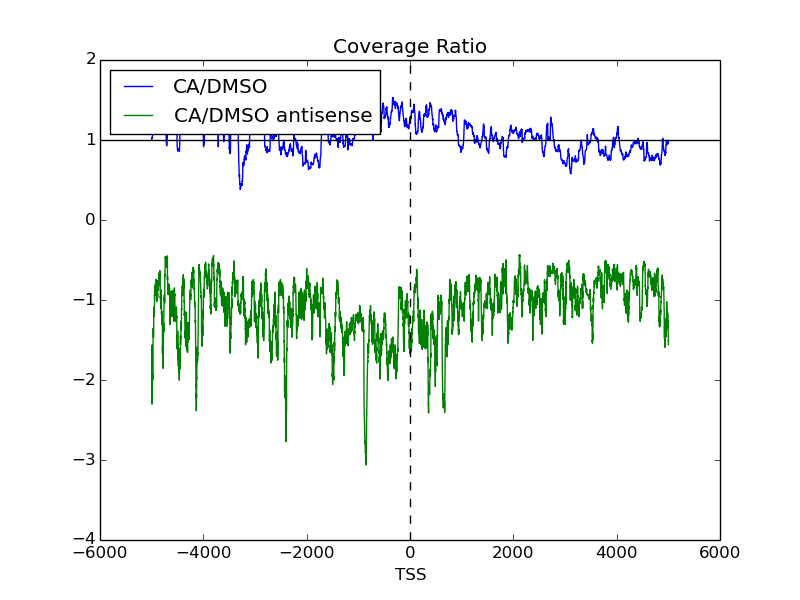
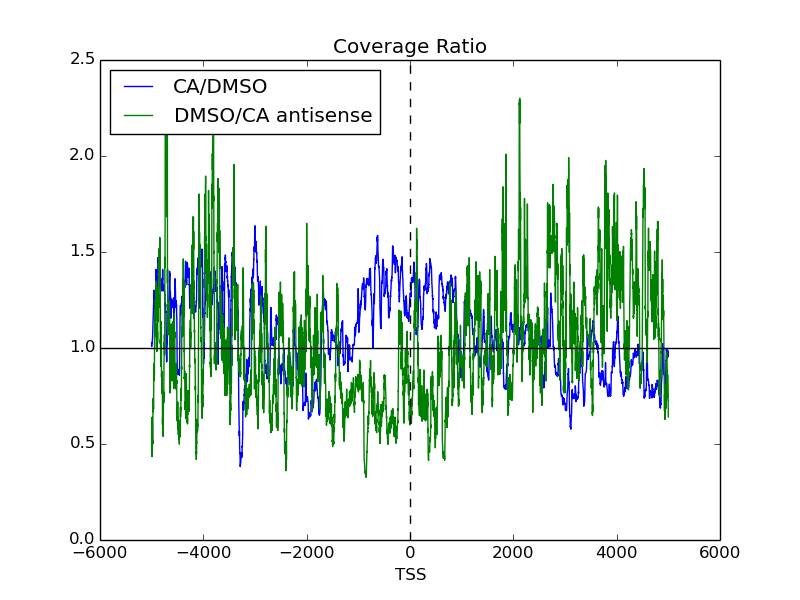
updates

diff --git a/src/metagene_TSS.py b/src/metagene_TSS.py
@@ -104,13 +104,13 @@ def run(file1,file2,file3):
     
     for gene in DMSOdict:
         for i in range(len(DMSOdict[gene])):
-            DMSOarray[i] += DMSOdict[gene][i]
-            DMSOantiarray[i] += DMSOantidict[gene][i]
+            DMSOarray[i] += DMSOdict[gene][i]/max(DMSOdict[gene][i])
+            DMSOantiarray[i] += DMSOantidict[gene][i]/max(DMSOantidict[gene][i])
             
     for gene in CAdict:
         for i in range(len(CAdict[gene])):
-            CAarray[i] += CAdict[gene][i]
-            CAantiarray[i] += CAantidict[gene][i]
+            CAarray[i] += CAdict[gene][i]/max(CAdict[gene][i])
+            CAantiarray[i] += CAantidict[gene][i]/max(CAantidict[gene][i])
             
     F = plt.figure()
     x1 = np.arange(-1000,1000,1)
